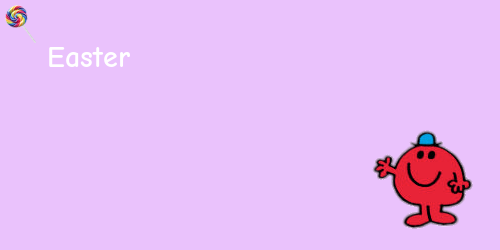
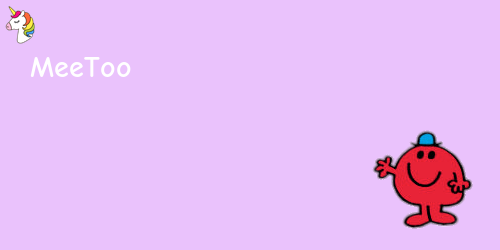
Исправлена генерация постера

Changed region(s): [[0.06, 0.168, 0.27, 0.308], [0.0, 0.0, 0.09, 0.196]]

diff --git a/generate_poster.py b/generate_poster.py
@@ -30,7 +30,7 @@ def text_wrap(text, font, max_width):
             lines.append(line)    
     return lines
 
-def generate_poster(background, text, text_color='', font='Comic', url='', rabbit='', logo_pic=''):
+def generate_poster(background, text, text_color='', font='Comic.ttf', url='', rabbit='', logo_pic=''):
 	rgb = tuple(int(background[i:i+2], 16) for i in (0, 2, 4))
 	text_color_rgb = tuple(int(text_color[i:i+2], 16) for i in (0, 2, 4))
 
@@ -40,7 +40,7 @@ def generate_poster(background, text, text_color='', font='Comic', url='', rabbi
 
 	size = img_height - padding*2, img_height - padding*2
 
-	if(url):
+	if url:
 		response = requests.get(url)
 		print(response)
 		bird = Image.open(BytesIO(response.content)).convert("RGBA")
@@ -85,10 +85,10 @@ def generate_poster(background, text, text_color='', font='Comic', url='', rabbi
 	    draw.text((x, y), line, fill=text_color_rgb, font=font)
 	    y = y + line_height
 
-	byte_io = BytesIO()
-	img.save(byte_io, format='PNG')
-	byte_io = byte_io.getvalue()
-	return byte_io
-	#img.save('images/pil_text.png', optimize=True)
-
-
+	if rabbit:
+		img.save('images/pil_text.png', optimize=True)
+	else:
+		byte_io = BytesIO()
+		img.save(byte_io, format='PNG')
+		byte_io = byte_io.getvalue()
+		return byte_io

diff --git a/start.py b/start.py
@@ -1,8 +1,9 @@
 import generate_poster
 
 generate_poster.generate_poster(background='eac2fc', 
-	text='Easter', 
+	text='MeeToo', 
 	text_color='FFFFFF',
-	font="Comic",
-	logo_pic="lolypop",
+	rabbit="rabbit3",
+	font="Comic.ttf",
+	logo_pic="unicorn",
 	url="") 

diff --git a/Readme.md b/Readme.md
@@ -5,3 +5,29 @@ Loly_bot
 @myloly_bot
 
 <img src="images/hipster.gif" />
+
+
+## To generate image
+
+Type in console: 
+
+`python3 start.py`
+
+Will generate `images/pil_text.png`
+
+## Settings 
+
+```
+	background='eac2fc', 
+	text='MeeToo', 
+	text_color='FFFFFF',
+	rabbit="rabbit3",
+	font="Comic.ttf",
+	logo_pic="unicorn",
+	url=""
+```
+
+Rabbit is main pic saved in `images/`
+
+logo_pic is logo thumbnail in `logos/`
+
